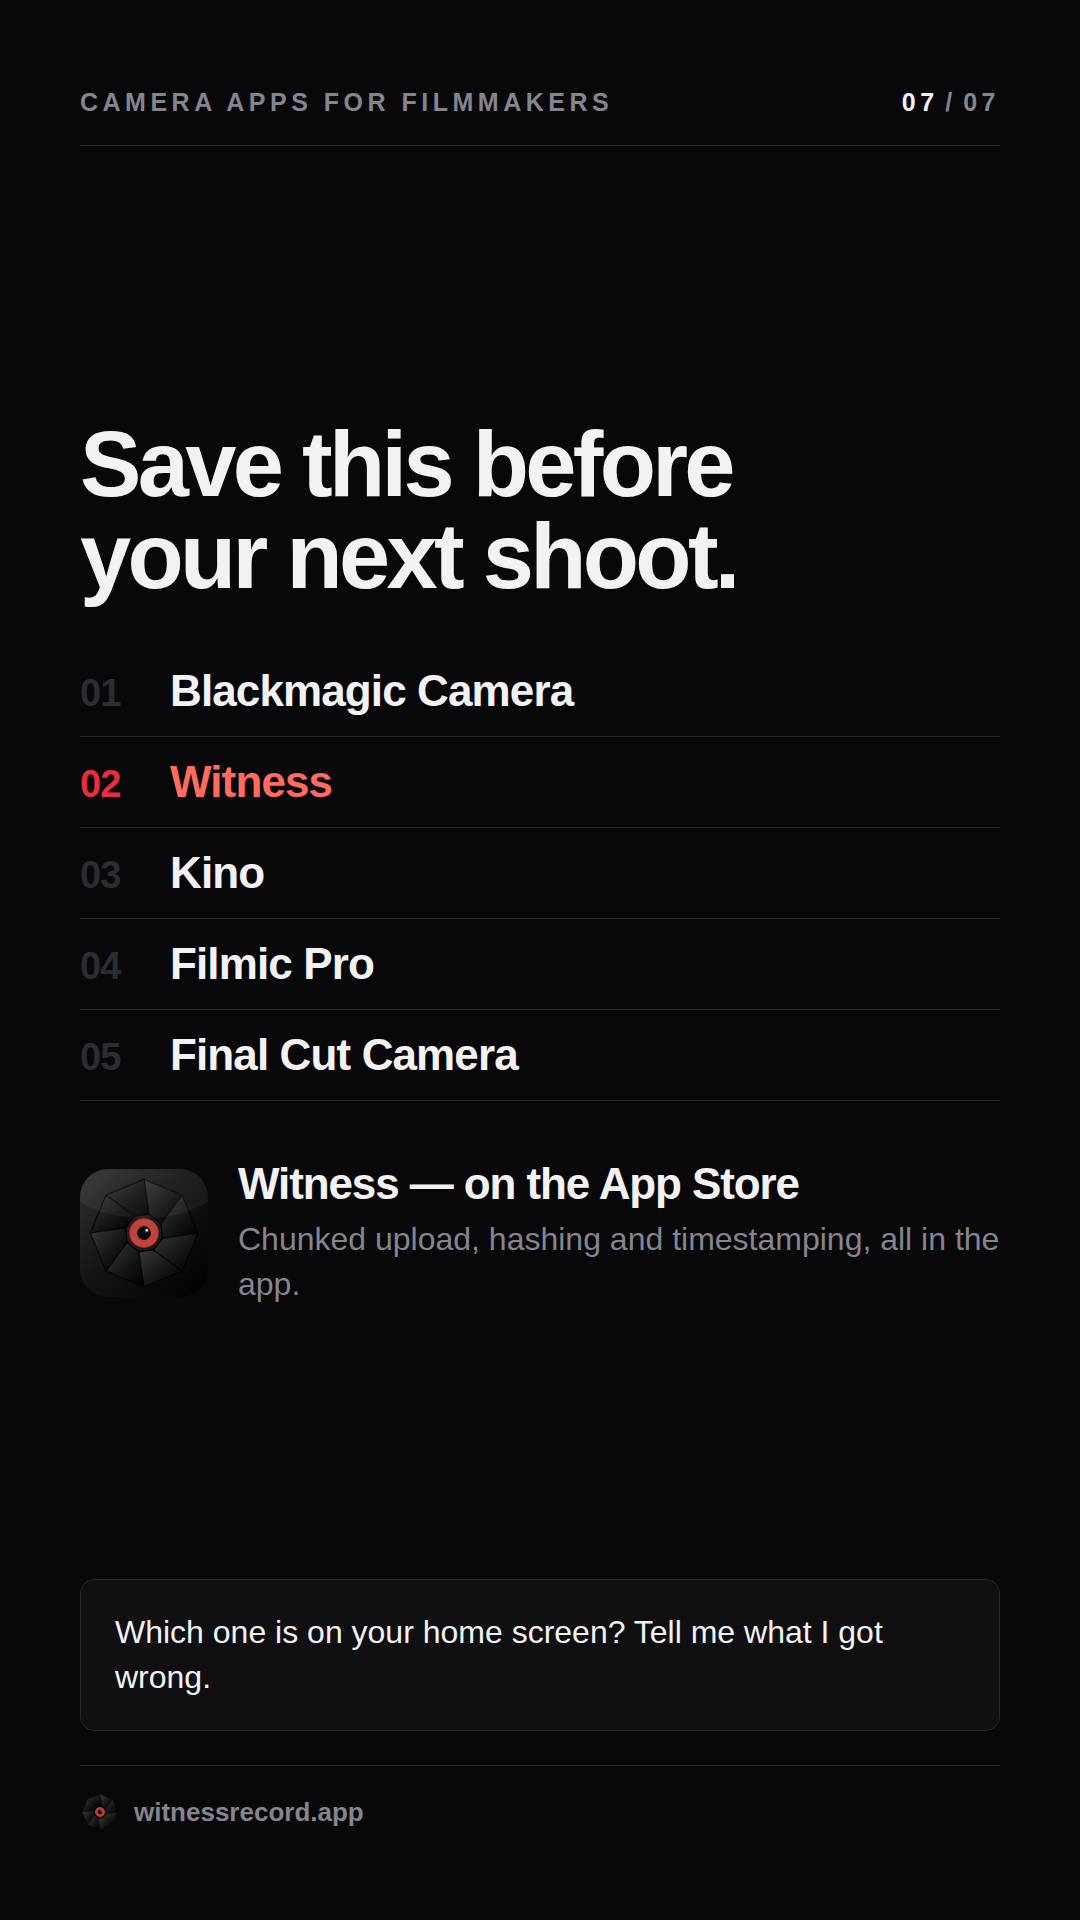
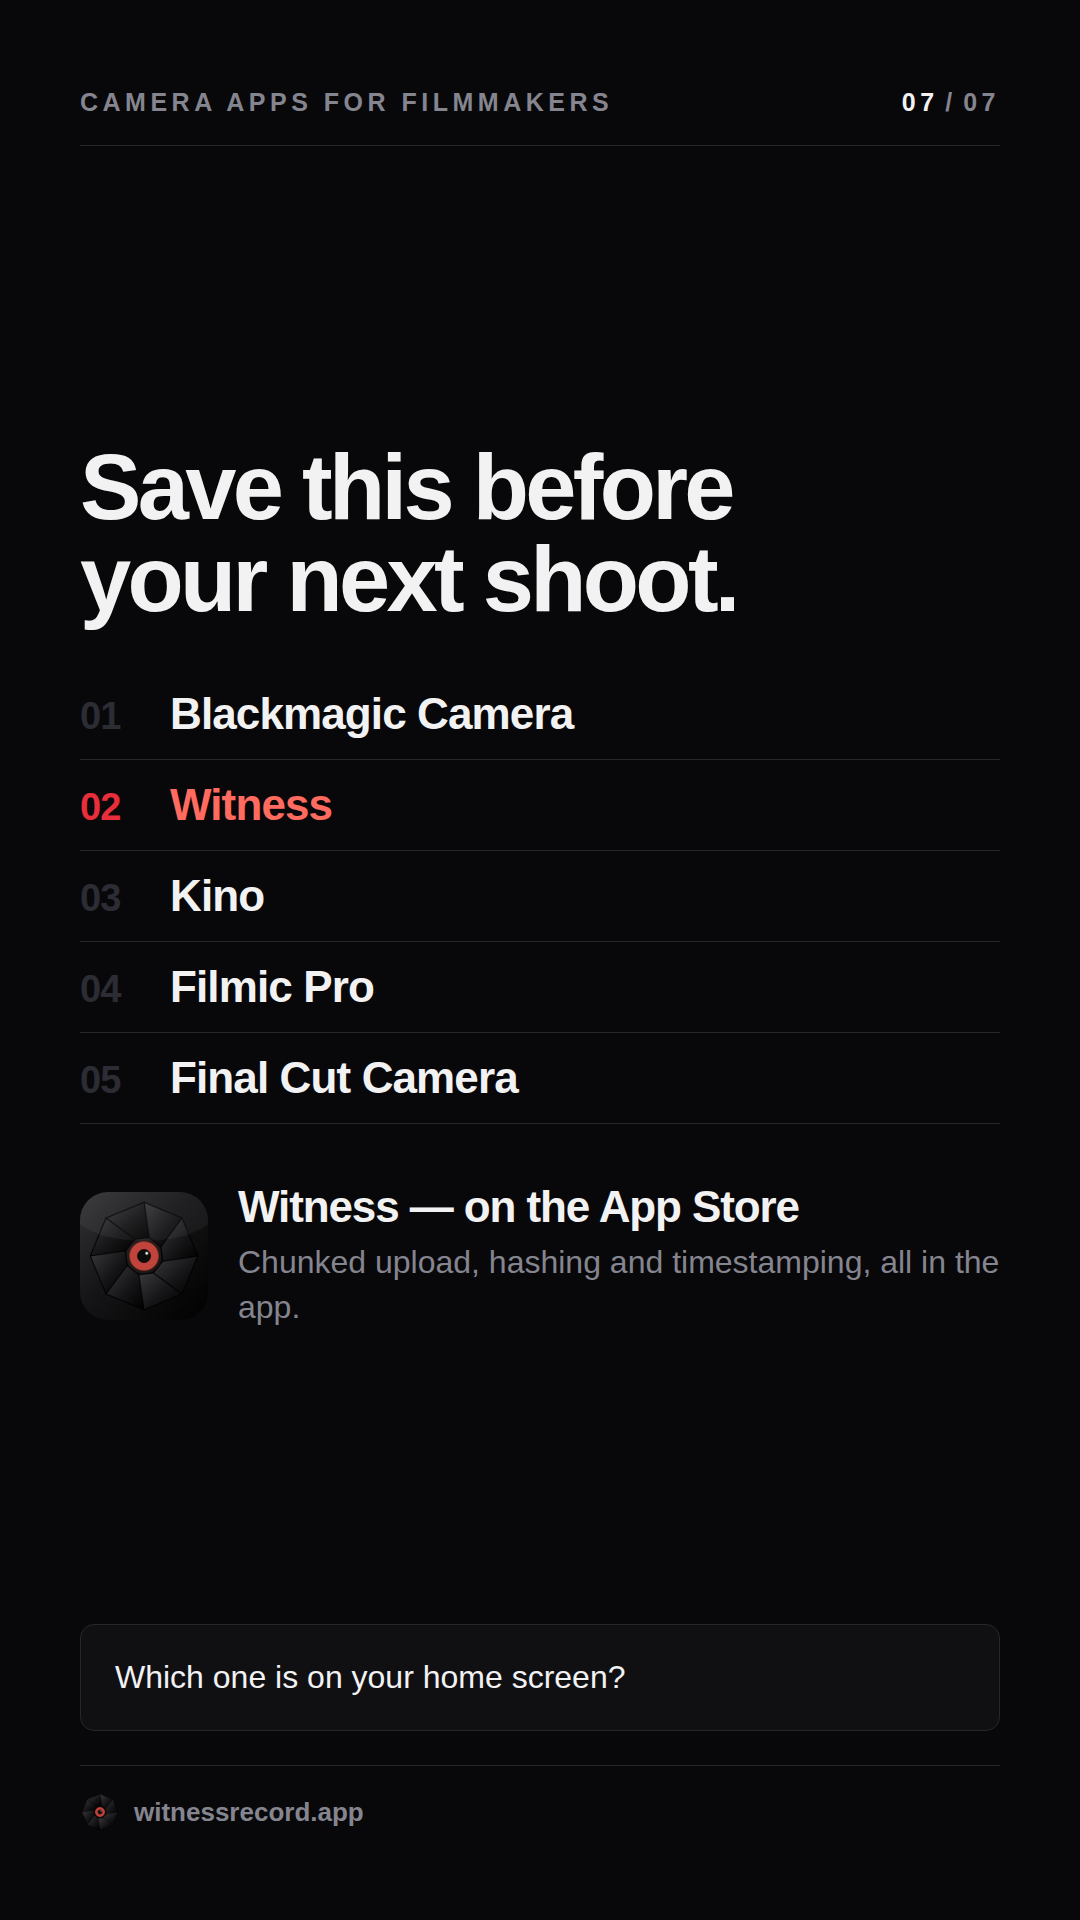
Drop the invitation to correct me from the closing slide
The last slide now asks only which app is on the reader's home screen.

Also records where the four missing icons come from, in the build
script, the README and the canvas note, since the build box cannot
reach Apple to fetch them.

Claude-Session: https://claude.ai/code/session_01Akq5Wku8xeo6qiCmub5pxH

Changed region(s): [[0.0611, 0.2188, 0.9167, 0.6875], [0.0917, 0.8438, 0.825, 0.9062]]

diff --git a/social/tiktok-camera-apps/Outro.dc.html b/social/tiktok-camera-apps/Outro.dc.html
@@ -51,7 +51,7 @@
   </div>
 </div>
 <div style="background: #101013; border: 1px solid #26262c; border-radius: 14px; padding: 30px 34px; margin-bottom: 34px;">
-  <div style="font-size: 32px; line-height: 1.4; color: #f2f2f3;">Which one is on your home screen? Tell me what I got wrong.</div>
+  <div style="font-size: 32px; line-height: 1.4; color: #f2f2f3;">Which one is on your home screen?</div>
 </div>
 <div style="height: 1px; background: #26262c; margin: 0 0 26px;"></div>
 <div style="display: flex; align-items: center; justify-content: space-between; gap: 24px;">

diff --git a/social/tiktok-camera-apps/build-slides.py b/social/tiktok-camera-apps/build-slides.py
@@ -107,7 +107,14 @@ def icon(stem, initials):
     """The app's icon, if we have it. The four third-party icons are not in
     this repo and Apple's endpoints are not reachable from the build box, so
     those render as an obvious placeholder until someone drops the real PNG in
-    as icon-<stem>.png and re-runs this script."""
+    as icon-<stem>.png and re-runs this script. The icons live on these App
+    Store listings:
+
+        Blackmagic  apps.apple.com/us/app/blackmagic-camera/id6449580241
+        Kino        apps.apple.com/us/app/kino-pro-video-camera/id6472380172
+        FilmicPro   apps.apple.com/us/app/filmic-pro-video-camera/id436577167
+        FinalCut    apps.apple.com/us/app/final-cut-camera/id6469552837
+    """
     path = 'witness-icon.png' if stem == 'Witness' else 'icon-%s.png' % stem.lower()
     if os.path.exists(path):
         return ('<img src="%s" alt="" style="width: 168px; height: 168px; '
@@ -298,7 +305,7 @@ outro_body = '\n'.join([
     '<div style="background: %s; border: 1px solid %s; border-radius: 14px; '
     'padding: 30px 34px; margin-bottom: 34px;">' % (RAISED, LINE),
     '  <div style="font-size: 32px; line-height: 1.4; color: %s;">'
-    'Which one is on your home screen? Tell me what I got wrong.</div>' % TEXT,
+    'Which one is on your home screen?</div>' % TEXT,
     '</div>',
     footer(),
 ])

diff --git a/social/tiktok-camera-apps/README.md b/social/tiktok-camera-apps/README.md
@@ -9,9 +9,16 @@ them out and carries the draft caption. `camera-apps-carousel.html` is the
 assembled canvas — export each artboard as PNG from its toolbar and post them
 in canvas order.
 
-The four third-party icon tiles are placeholders: drop the real icons in as
-icon-blackmagic.png, icon-kino.png, icon-filmicpro.png and icon-finalcutcamera.png
-and re-run the build, which picks up any icon-<stem>.png it finds.
+The four third-party icon tiles are placeholders. The build box has no network
+egress, so the icons have to be fetched by hand from their App Store listings
+and saved into this folder; the build picks up any `icon-<stem>.png` it finds.
+
+| save as | from |
+| --- | --- |
+| `icon-blackmagic.png` | apps.apple.com/us/app/blackmagic-camera/id6449580241 |
+| `icon-kino.png` | apps.apple.com/us/app/kino-pro-video-camera/id6472380172 |
+| `icon-filmicpro.png` | apps.apple.com/us/app/filmic-pro-video-camera/id436577167 |
+| `icon-finalcutcamera.png` | apps.apple.com/us/app/final-cut-camera/id6469552837 |
 
 The Witness slide leads on the one thing no other app here does — footage
 leaving the phone mid-record — and states the ProRes limitation and the
